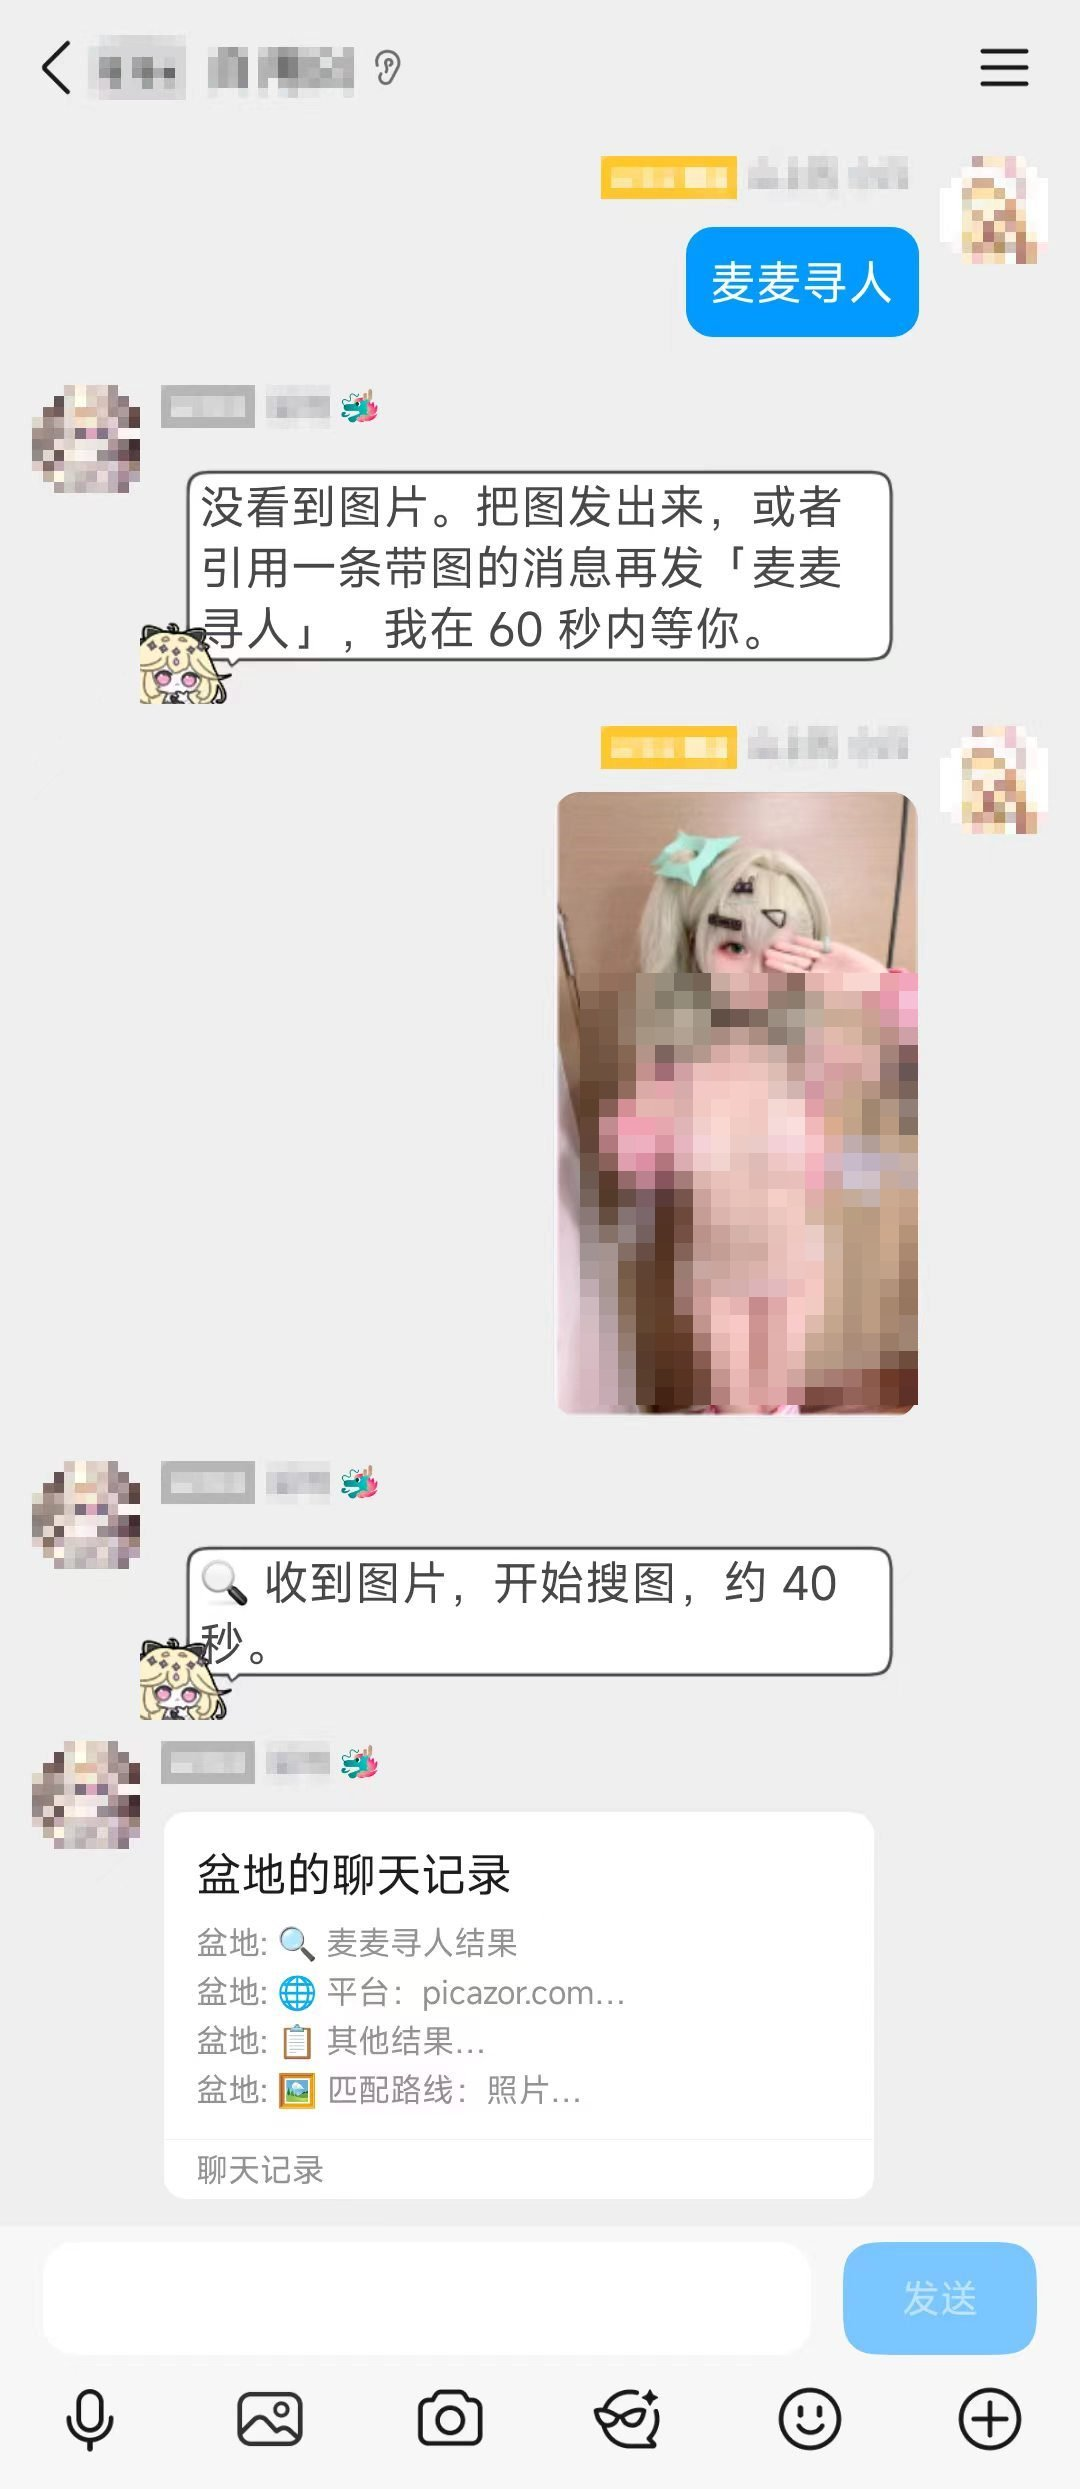
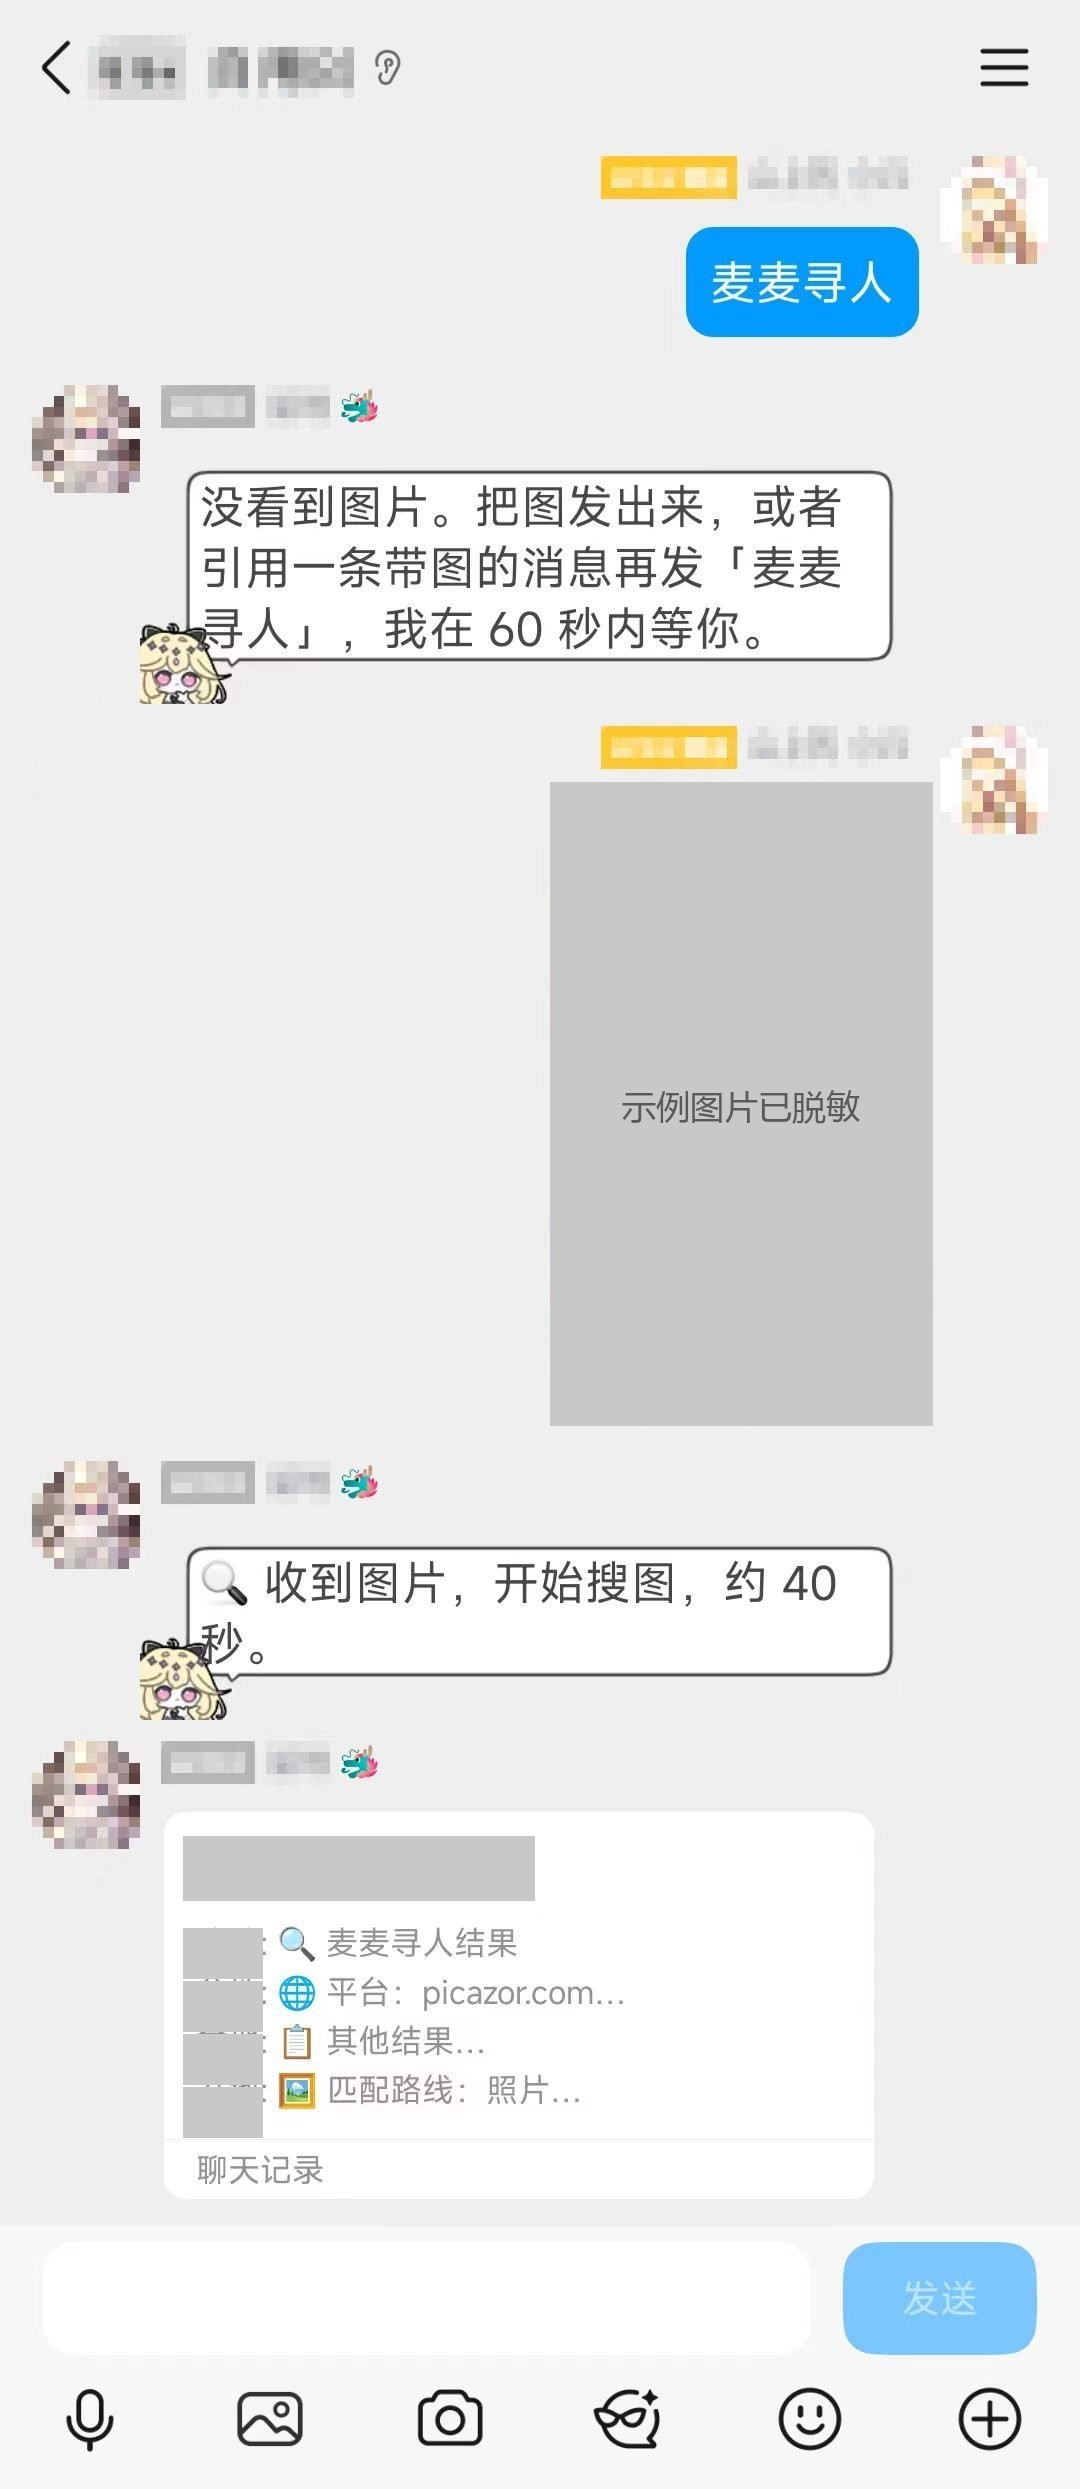
README/AGENTS 脱敏并更新展示
- 结果图改为脚本生成的虚构示例图，去掉真人照片与真实账号
- 聊天截图遮盖照片区域与群名
- README 补上「没找到也会附参考图」的说明
- AGENTS 记录配图规则、重载要求与截图脱敏检查项

Changed region(s): [[0.4889, 0.3094, 0.8861, 0.5878], [0.1528, 0.7115, 0.5194, 0.8662]]

diff --git a/AGENTS.md b/AGENTS.md
@@ -66,6 +66,7 @@ core/maibot_compat.py  能力返回值解包
 6. **等图窗口要按「会话 + 用户」配对**：群里可能几个人同时在等图，不要只按会话匹配。
 7. **`enabled=false` 要下沉到 `_start_task`**：只挡 Tool 不挡 Command 会漏。
 8. **Tool 与 Command 的 `user_id` 不一致**：查最近任务要 `latest_for` 失败后 `latest_in_stream` 兜底。
+9. **没匹配上不等于不发图**：早前 `_best_image` 与 `build_forward_nodes` 都以 `best is not None` 为前提，`not_found` 时整条转发一张图都没有，用户没法核对。现在 best 为空也会取候选里第一张能下载的图，挂在参考区并注明「未经指纹确认」；候选全失败退回原图。改配图逻辑时这两处要一起看。
 
 ## 排障顺序
 
@@ -74,7 +75,7 @@ core/maibot_compat.py  能力返回值解包
 3. 一直「没看到图片」：看日志有没有「已缓存入站图片」。没有就是钩子没跑到；有缓存还失败，看「按消息 ID 没有取回消息体」。
 4. 结果全是「未验证」：候选图下载失败，检查代理配置与 `download_timeout`；403 属于对端封 IP，无法绕过。
 5. 引擎全失败：看任务文件里 `summary.errors` 的具体 HTTP 状态；Yandex / SerpAPI 先怀疑代理。
-6. 追问「更多」没结果：任务过期（`task_ttl_minutes`）或插件进程重启过（内存任务表重建）。
+6. 追问「更多」没结果：任务过期（`task_ttl_minutes`）或插件进程重启过（内存任务表重建）。「更多」出来的转发没图时，先看原结果状态：`not_found` 早前就是不带图的，现在会给参考区补一张，若仍无图说明候选图全部下载失败，看日志里的「候选图下载失败」。
 
 ## 代理配置
 
@@ -90,10 +91,12 @@ python -m unittest discover -s tests -v
 
 新增引擎适配、改阈值、改指纹逻辑时补用例。改动 `_verify` / `_rank` / 取图链路后，用真实图跑一次端到端，确认「匹配 → 最佳匹配 → 带图」不断。
 
-改完 `plugin.py` 必须重载验证：日志里应出现 `麦麦找鸡已加载：… 上限=…`，且无 traceback。注意改源码会重启插件进程，内存里的任务表会重建。
+改完 `plugin.py` 必须重载验证：日志里应出现 `麦麦寻人已加载：… 上限=…`，且无 traceback。注意改源码会重启插件进程，内存里的任务表会重建。改 `command` / `aliases` 同理，必须重载才生效。
 
 ## 发布前检查
 
 - `config.toml` 不要提交；确认仓库里只有 `config.example.toml`。
 - 仓库内不要留 `plugin.py.upload_tmp`、`__pycache__`、日志、任务数据。
 - 不要在 README / AGENTS / 代码里出现真实 key、代理 IP、群号。
+- **截图必须脱敏**：群名、昵称、QQ 头像、对方账号、露骨标题都要遮盖或打码；真人裸露照片不要放原图，README 里的效果图优先用虚构字段的示意图（`assets/preview-result.png` 就是脚本生成的）。
+- 提交前扫一遍：`grep -rn "@[A-Za-z0-9_]\{2,\}" README.md AGENTS.md` 与 `grep -rn "127.0.0.1\|OnlyFans" README.md`。

diff --git a/README.md b/README.md
@@ -14,9 +14,11 @@
 
 60 秒内补一张单图，它回一句「收到图片，开始搜图」，约 40 秒后发出一条合并转发。点开就是结果：
 
-![合并转发里的匹配结果](assets/preview-result.jpg)
+![合并转发里的匹配结果](assets/preview-result.png)
 
-这就是典型产出：最佳匹配给出平台（picazor.com）、指纹距离 5（判定为同一张图）、名字和账号，并附上原图；下面依次是其他结果——X 上的同一个账号、Reddit 的原帖、arca.live、pixiv 上相似度不够的近似图，每条都标了「指纹一致」还是「相似度偏低」，末尾再给匹配路线和「回复更多」的提示。**能定位到账号的才给账号，指纹不符的只会留在参考区。**
+这就是典型产出：最佳匹配给出平台、指纹距离（判定是不是同一张图）、名字和账号，并附上一张配图；下面依次是其他结果，每条都标了「指纹一致」还是「相似度偏低」，末尾再给匹配路线和「回复更多」的提示。**能定位到账号的才给账号，指纹不符的只会留在参考区。**（第二张图是结构示意，字段与配图均为虚构示例。）
+
+没找到可靠匹配时，参考区会照常列出候选并附一张最接近的参考图，注明「未经指纹确认」——不会因为没匹配上就什么都不给。
 
 ## 模型也能直接调用
 
@@ -43,8 +45,8 @@
 ├─ 最佳匹配
 │    🌐 平台：X（Twitter）
 │    🔍 匹配：图片指纹一致（距离 2）
-│    👤 名字：荣小兔头
-│    🆔 账号：@usagi_rr
+│    👤 名字：示例用户
+│    🆔 账号：@example_user
 │    [配图]
 ├─ 参考结果
 │    1. [Lens] Instagram · 某某 · @xxx ｜ 未验证
